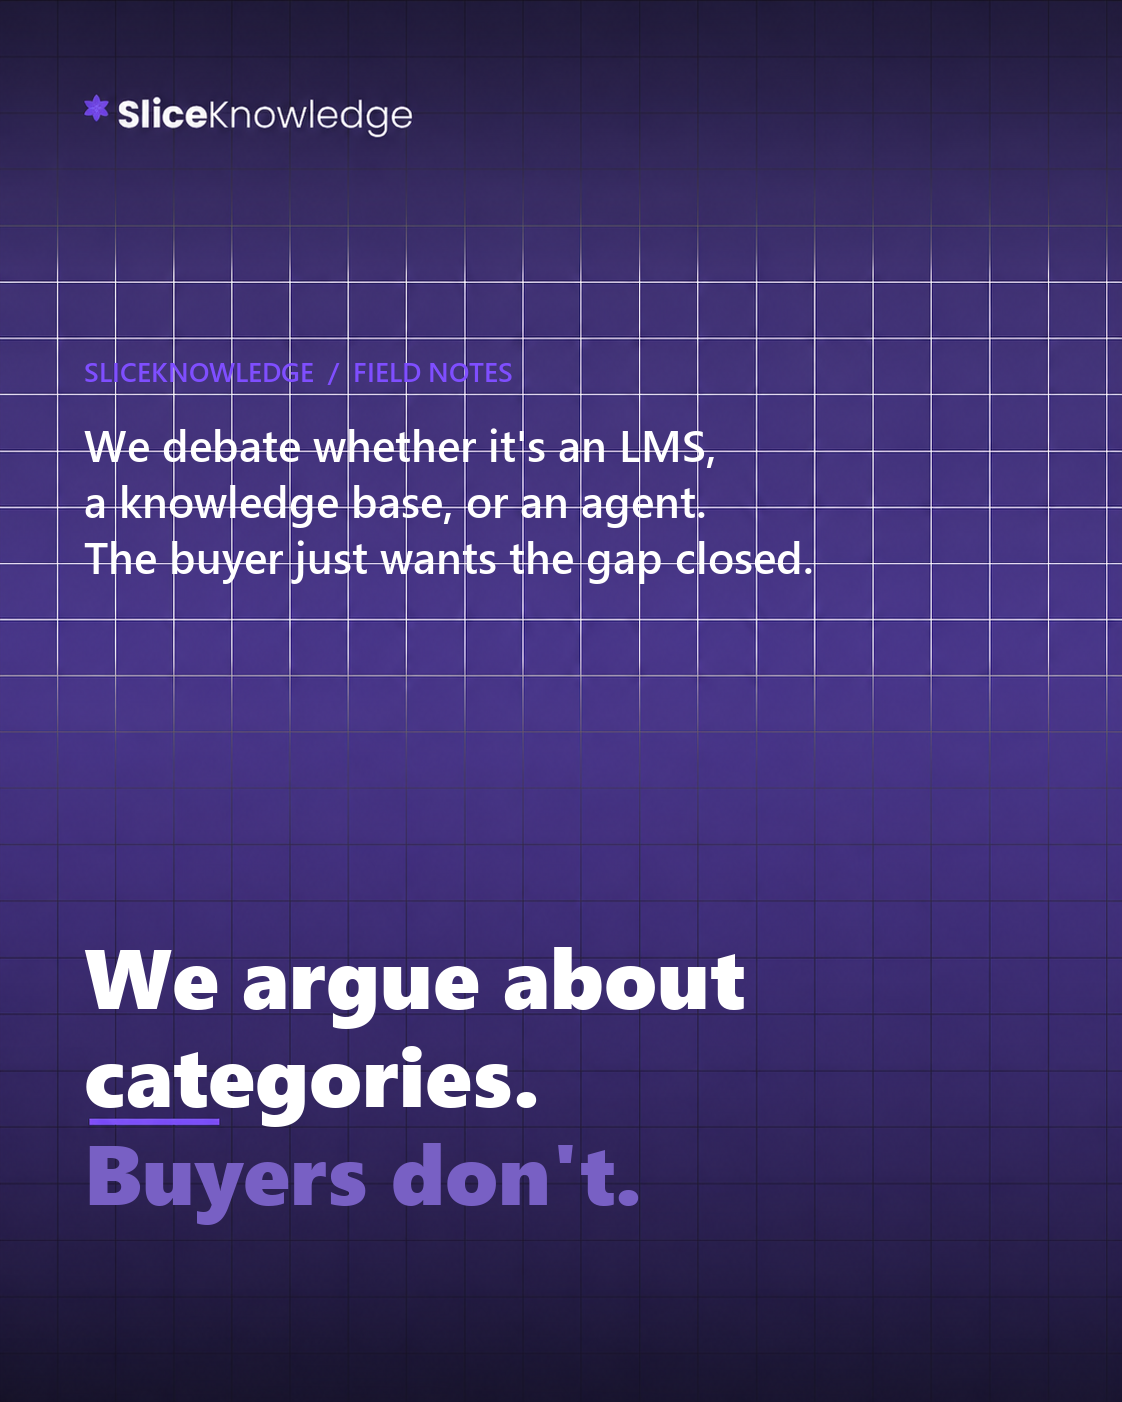
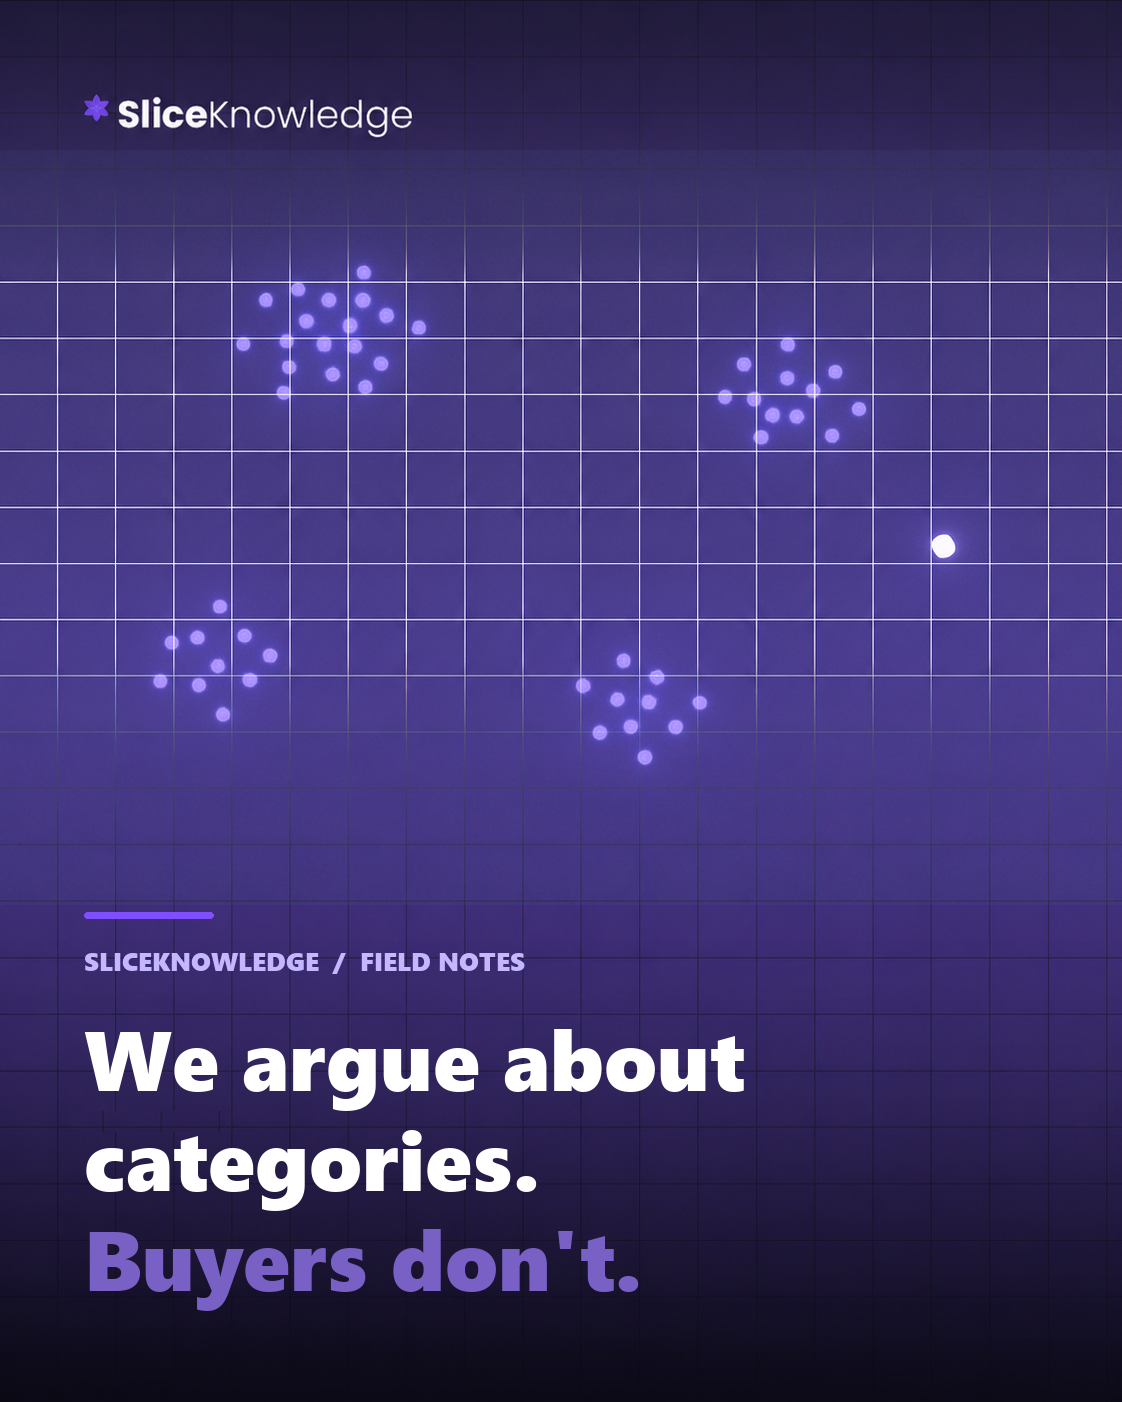
Week 3 final images: AI constellation overlay (gpt-image-1) on bright brand gradient
Replaces the typographic drafts with the approved photo-overlay direction:
gpt-image-1 abstract (black bg) screen-blended over the brand gradient + grid +
accent-above-label (RTL-aware) + measured legibility. Adds reusable pipeline script.

diff --git a/slice_photo_overlay_ai.py b/slice_photo_overlay_ai.py
@@ -1,0 +1,90 @@
+# -*- coding: utf-8 -*-
+"""Generate B & C AI abstracts, compose all 3 posts in the locked style (bright gradient +
+screen-blended constellation + grid + accent-above-label + CLEAN, no thread). Show 3-up."""
+import os,base64
+import numpy as np
+from PIL import Image, ImageDraw, ImageFont
+from bidi.algorithm import get_display
+from openai import OpenAI
+
+KEYFILE="C:/Users/Shahar Tabib/OneDrive - Sliceknowledge.com/Slice/שיווק סלייס/כלי שיווק/Open Ai API.txt"
+POSTS="C:/Users/Shahar Tabib/OneDrive - Sliceknowledge.com/Slice/תוכנית עסקית/Pitch Deck/Strategy 2026/קווים עיצוביים/posts"
+SD="C:/Users/SHAHAR~1/AppData/Local/Temp/claude/C--Users-Shahar-Tabib-OneDrive---Sliceknowledge-com-Slice--------------Pitch-Deck-Strategy-2026/80bf7f65-50df-4b6e-ba63-877930a8ee8f/scratchpad"
+WHITE=(255,255,255); FADED=(120,96,196); LAV=(196,182,255); PUR=(127,78,255)
+LEFT=84; RIGHT=1038; RY0,RY1=150,905
+BLK="C:/Windows/Fonts/seguibl.ttf"; ARBD="C:/Windows/Fonts/arialbd.ttf"
+base=Image.open(f"{POSTS}/Photo Overlay.png").convert("RGB"); W,H=base.size
+bt=np.asarray(base).astype(float); YY,XX=np.mgrid[0:H,0:W].astype(float)
+client=OpenAI(api_key=open(KEYFILE,encoding="utf-8-sig").read().strip())
+
+def gen(prompt,out):
+    if os.path.exists(out): print("cached",out); return out
+    r=client.images.generate(model="gpt-image-1",prompt=prompt,size="1536x1024",quality="medium",n=1)
+    open(out,"wb").write(base64.b64decode(r.data[0].b64_json)); print("generated",out); return out
+
+PB=("Editorial abstract background for a premium enterprise tech brand. Pure black canvas. On the "
+    "RIGHT, a large dense luminous cluster of many small glowing violet-white nodes, a bright body of "
+    "collective knowledge. On the far LEFT, a single small isolated glowing node alone in vast empty "
+    "black space. A very wide dark empty gap separates them. Minimalist, lots of negative space, soft "
+    "bokeh glow, fine grain, violet #7F4EFF and white points on pure black. NO text, no letters, no "
+    "people, no faces, not a stock photo. Cinematic, restrained, abstract data-constellation.")
+PC=("Editorial abstract background for a premium enterprise tech brand. Pure black canvas. Three or four "
+    "SEPARATE distinct glowing clusters of violet nodes, each a self-contained group, spaced apart from "
+    "one another like different categories. Set clearly apart from all of them, a single notably brighter "
+    "and larger lone glowing node stands alone. Minimalist, lots of negative space, soft bokeh glow, fine "
+    "grain, violet #7F4EFF and white on pure black. NO text, no letters, no people, not a stock photo. "
+    "Cinematic, restrained, abstract.")
+rawB=gen(PB,f"{SD}/ai_B_raw.png"); rawC=gen(PC,f"{SD}/ai_C_raw.png")
+rawA=f"{SD}/ai_A_raw.png"
+
+def crop_fill(img,w,h):
+    iw,ih=img.size; t=w/h; s=iw/ih
+    if s>t: nw=int(ih*t); x=(iw-nw)//2; img=img.crop((x,0,x+nw,ih))
+    else:   nh=int(iw/t); y=(ih-nh)//2; img=img.crop((0,y,iw,y+nh))
+    return img.resize((w,h),Image.LANCZOS)
+
+# locate baked underline once
+ys,xs=np.mgrid[0:H,0:W]; regm=(ys>1050)&(ys<1250)&(xs<360)
+R,G,B=bt[...,0],bt[...,1],bt[...,2]; m=regm&(B>120)&(R>90)&(R>G+25); yy2,xx2=np.where(m)
+UX0,UX1,UY0,UY1=xx2.min(),xx2.max(),yy2.min(),yy2.max(); UW,UH=UX1-UX0+1,UY1-UY0+1
+STEP=93.5
+
+def compose(raw,lang,label,punch):
+    ai=np.clip(np.asarray(crop_fill(Image.open(raw).convert("RGB"),W,RY1-RY0)).astype(float)*1.12,0,255)
+    g=bt[RY0:RY1].copy(); screen=255-(255-g)*(255-ai)/255.0
+    arr=bt.copy(); arr[RY0:RY1]=screen
+    v=np.clip((YY-940)/(H-940),0,1)**1.5; arr=arr*(1-v[...,None]*0.5)
+    img=Image.fromarray(np.clip(arr,0,255).astype(np.uint8),"RGB")
+    dx=int(round(2*STEP)); pad=8; box=(UX0-pad,UY0-pad,UX1+pad,UY1+pad)
+    img.paste(img.crop((box[0]+dx,box[1],box[2]+dx,box[3])),(box[0],box[1]))
+    d=ImageDraw.Draw(img,"RGBA")
+    def w_of(t,f): b=d.textbbox((0,0),t,font=f); return b[2]-b[0]
+    lf=ImageFont.truetype(ARBD if lang=="he" else BLK,27 if lang=="he" else 26)
+    pf=ImageFont.truetype(ARBD if lang=="he" else BLK,84)
+    pstep=100; top=1300-pstep*len(punch); label_y=top-58; ay=label_y-30
+    if lang=="he":
+        ImageDraw.Draw(img).rounded_rectangle([RIGHT-UW,ay,RIGHT,ay+UH],radius=UH//2,fill=PUR)
+        vis=get_display(label); d.text((RIGHT-w_of(vis,lf),label_y),vis,font=lf,fill=LAV)
+        for i,(t,c) in enumerate(punch):
+            vis=get_display(t); d.text((RIGHT-w_of(vis,pf),top+i*pstep),vis,font=pf,fill=c)
+    else:
+        ImageDraw.Draw(img).rounded_rectangle([LEFT,ay,LEFT+UW,ay+UH],radius=UH//2,fill=PUR)
+        d.text((LEFT,label_y),label,font=lf,fill=LAV)
+        for i,(t,c) in enumerate(punch):
+            d.text((LEFT,top+i*pstep),t,font=pf,fill=c)
+    return img
+
+A=compose(rawA,"he","סלייס  /  תצפיות מהשטח",[("הרגע שבו",WHITE),("הנציג לבד.",FADED)])
+Bimg=compose(rawB,"en","SLICEKNOWLEDGE  /  FIELD NOTES",[("Knowledge isn't",WHITE),("your problem.",WHITE),("Distance is.",FADED)])
+Cimg=compose(rawC,"en","SLICEKNOWLEDGE  /  FIELD NOTES",[("We argue about",WHITE),("categories.",WHITE),("Buyers don't.",FADED)])
+for nm,im in [("050726FB",A),("070726LI",Bimg),("090726LI",Cimg)]:
+    im.save(f"{SD}/final_{nm}.png")
+
+pw=384; ph=int(pw*H/W); cap=74; mar=34; gap=34
+CW=mar*2+pw*3+gap*2; CH=mar+cap+ph+mar
+cv=Image.new("RGB",(CW,CH),(17,15,28)); dd=ImageDraw.Draw(cv)
+cf=ImageFont.truetype("C:/Windows/Fonts/seguisb.ttf",25)
+titles=["A · FB — the rep, alone","B · LI — Distance is","C · LI — Buyers don't care"]
+for i,(t,im) in enumerate(zip(titles,[A,Bimg,Cimg])):
+    x=mar+i*(pw+gap); cv.paste(im.resize((pw,ph),Image.LANCZOS),(x,mar+cap)); dd.text((x,mar+20),t,font=cf,fill=(236,231,255))
+cv.save(f"{SD}/final_three.png"); print("saved 3-up")